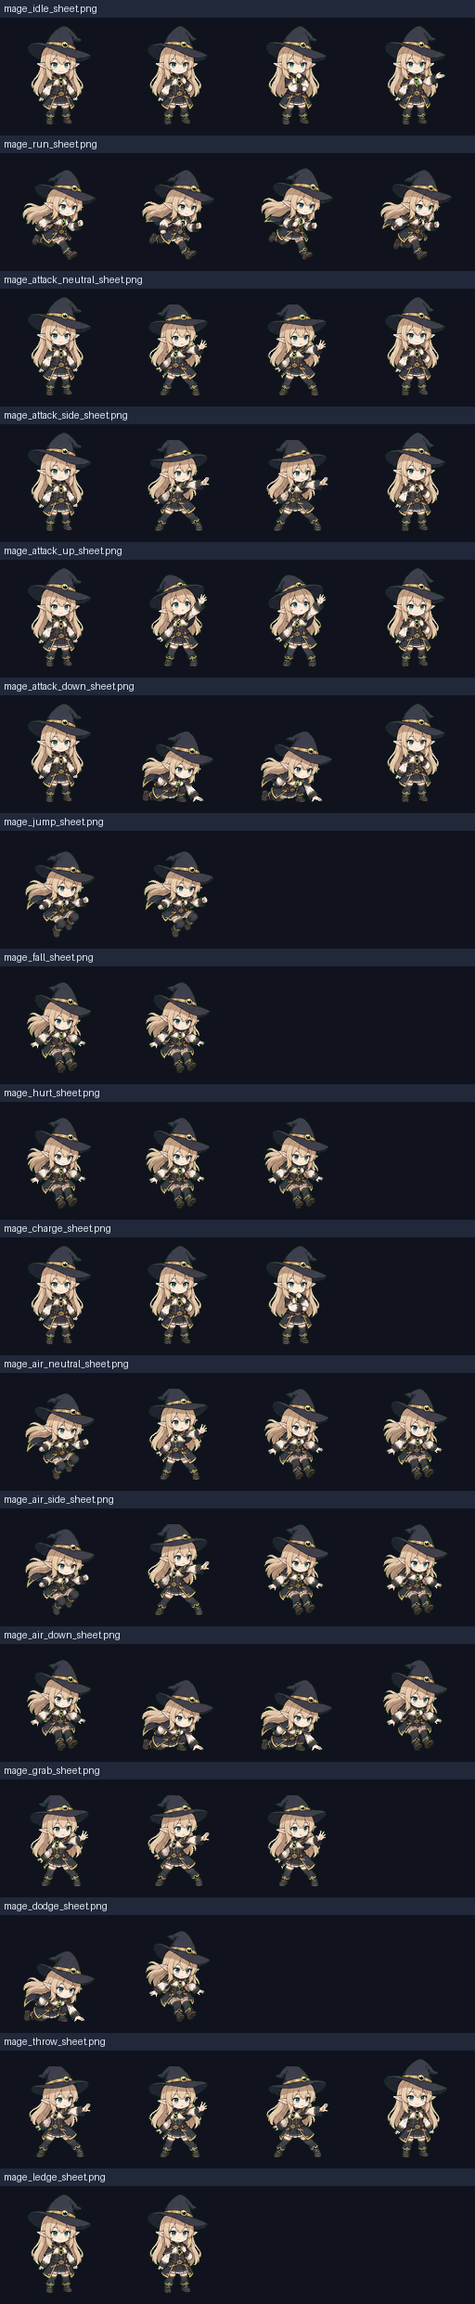
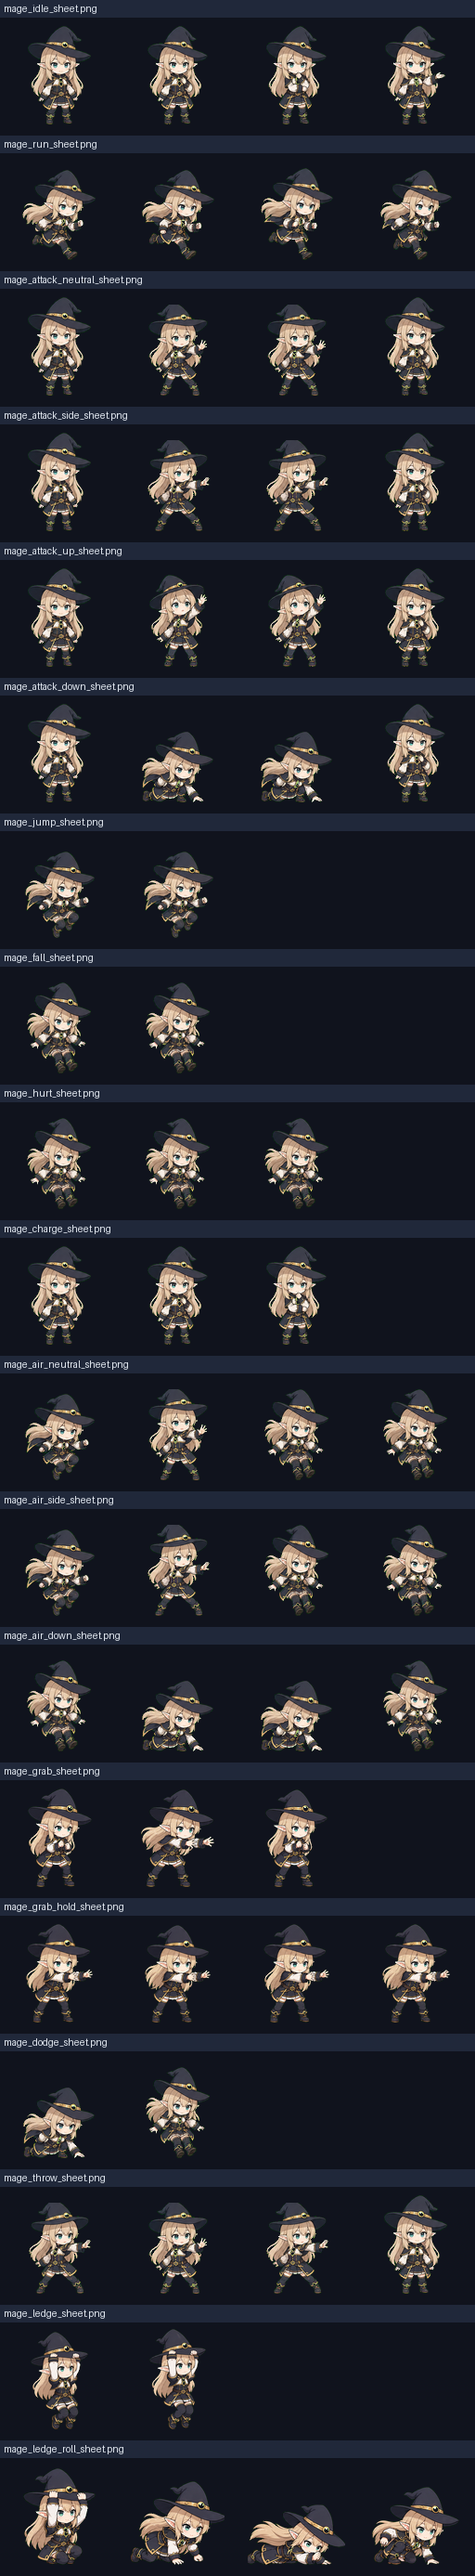
Update utility chibi motions

diff --git a/js/game.js b/js/game.js
@@ -2039,10 +2039,11 @@ window.SMA.SWORD_CHIBI_ANIMS = {
     airNeutral: { key: 'sword_chibi_air_neutral', src: 'assets/characters/sword/chibi_air_neutral_sheet.png?v=14', frames: 6, frameMs: 55 },
     airSide: { key: 'sword_chibi_air_side', src: 'assets/characters/sword/chibi_air_side_sheet.png?v=14', frames: 4, frameMs: 70 },
     airDown: { key: 'sword_chibi_air_down', src: 'assets/characters/sword/chibi_air_down_sheet.png?v=14', frames: 5, frameMs: 70 },
-    grab: { key: 'sword_chibi_grab', src: 'assets/characters/sword/chibi_grab_sheet.png?v=14', frames: 3, frameMs: 70 },
+    grab: { key: 'sword_chibi_grab', src: 'assets/characters/sword/chibi_grab_sheet.png?v=15', frames: 3, frameMs: 70 },
+    grabHold: { key: 'sword_chibi_grab_hold', src: 'assets/characters/sword/chibi_grab_hold_sheet.png?v=15', frames: 4, frameMs: 100 },
     throw: { key: 'sword_chibi_throw', src: 'assets/characters/sword/chibi_throw_sheet.png?v=14', frames: 4, frameMs: 80 },
     dodge: { key: 'sword_chibi_dodge', src: 'assets/characters/sword/chibi_dodge_sheet.png?v=14', frames: 2, frameMs: 70 },
-    ledge: { key: 'sword_chibi_ledge', src: 'assets/characters/sword/chibi_ledge_sheet.png?v=14', frames: 2, frameMs: 140 }
+    ledge: { key: 'sword_chibi_ledge', src: 'assets/characters/sword/chibi_ledge_sheet.png?v=15', frames: 2, frameMs: 140 }
 };
 for (var swordChibiAnimKey in window.SMA.SWORD_CHIBI_ANIMS) {
     if (Object.prototype.hasOwnProperty.call(window.SMA.SWORD_CHIBI_ANIMS, swordChibiAnimKey)) {
@@ -2067,7 +2068,8 @@ window.SMA.resolveSwordChibiAnim = function (fighter) {
     if (fighter.actionState === 'LEDGE' || fighter.actionState === 'LEDGE_UP') return A.ledge;
     if (fighter.actionState === 'LEDGE_ATK') return A.attackSide;
     if (fighter.actionState === 'GRAB_ATTEMPT') return A.grab;
-    if (fighter.actionState === 'GRABBING' || fighter.actionState === 'THROWING') return A.throw;
+    if (fighter.actionState === 'GRABBING') return A.grabHold || A.throw;
+    if (fighter.actionState === 'THROWING') return A.throw;
     if (fighter.actionState === 'ATTACK') {
         if (fighter.currentAttackType === 'SIDE') return A.attackSide;
         if (fighter.currentAttackType === 'UP' || fighter.currentAttackType === 'AIR_UP') return A.attackUp;
@@ -2401,7 +2403,8 @@ window.SMA.Fighter.prototype.drawSwordChibiSprite = function (ctx, cx) {
     ctx.scale(motion.scaleX, motion.scaleY);
     ctx.drawImage(img, sx, 0, fw, fh, -fw * spriteScale / 2, -baseline * spriteScale, fw * spriteScale, fh * spriteScale);
     ctx.restore();
-    if (!anim.integratedWeapon) {
+    var hideSword = this.actionState === 'LEDGE' || this.actionState === 'LEDGE_UP' || this.actionState === 'GRAB_ATTEMPT' || this.actionState === 'GRABBING';
+    if (!anim.integratedWeapon && !hideSword) {
         this.drawSwordChibiWeapon(ctx, cx, motion);
     }
 
@@ -2437,10 +2440,12 @@ window.SMA.MAGE_CHIBI_ANIMS = {
     airNeutral: { key: 'mage_chibi_air_neutral', src: 'assets/characters/mage/mage_air_neutral_sheet.png?v=2', frames: 4, frameMs: 70 },
     airSide: { key: 'mage_chibi_air_side', src: 'assets/characters/mage/mage_air_side_sheet.png?v=2', frames: 4, frameMs: 75 },
     airDown: { key: 'mage_chibi_air_down', src: 'assets/characters/mage/mage_air_down_sheet.png?v=2', frames: 4, frameMs: 75 },
-    grab: { key: 'mage_chibi_grab', src: 'assets/characters/mage/mage_grab_sheet.png?v=2', frames: 3, frameMs: 75 },
+    grab: { key: 'mage_chibi_grab', src: 'assets/characters/mage/mage_grab_sheet.png?v=3', frames: 3, frameMs: 75 },
+    grabHold: { key: 'mage_chibi_grab_hold', src: 'assets/characters/mage/mage_grab_hold_sheet.png?v=3', frames: 4, frameMs: 100 },
     throw: { key: 'mage_chibi_throw', src: 'assets/characters/mage/mage_throw_sheet.png?v=2', frames: 4, frameMs: 85 },
     dodge: { key: 'mage_chibi_dodge', src: 'assets/characters/mage/mage_dodge_sheet.png?v=2', frames: 2, frameMs: 75 },
-    ledge: { key: 'mage_chibi_ledge', src: 'assets/characters/mage/mage_ledge_sheet.png?v=2', frames: 2, frameMs: 150 }
+    ledge: { key: 'mage_chibi_ledge', src: 'assets/characters/mage/mage_ledge_sheet.png?v=3', frames: 2, frameMs: 150, baseline: 96 },
+    ledgeRoll: { key: 'mage_chibi_ledge_roll', src: 'assets/characters/mage/mage_ledge_roll_sheet.png?v=3', frames: 4, frameMs: 65 }
 };
 for (var mageChibiAnimKey in window.SMA.MAGE_CHIBI_ANIMS) {
     if (Object.prototype.hasOwnProperty.call(window.SMA.MAGE_CHIBI_ANIMS, mageChibiAnimKey)) {
@@ -2460,11 +2465,13 @@ window.SMA.resolveMageChibiAnim = function (fighter) {
     if (!A || !fighter || fighter.charId !== 'mage') return null;
     if (fighter.actionState === 'STUN' || fighter.actionState === 'GRABBED') return A.hurt;
     if (fighter.actionState === 'CHARGE') return A.charge;
-    if (fighter.actionState === 'DODGE' || fighter.actionState === 'LEDGE_ROLL') return A.dodge;
+    if (fighter.actionState === 'DODGE') return A.dodge;
+    if (fighter.actionState === 'LEDGE_ROLL') return A.ledgeRoll || A.dodge;
     if (fighter.actionState === 'LEDGE' || fighter.actionState === 'LEDGE_UP') return A.ledge;
     if (fighter.actionState === 'LEDGE_ATK') return A.attackSide;
     if (fighter.actionState === 'GRAB_ATTEMPT') return A.grab;
-    if (fighter.actionState === 'GRABBING' || fighter.actionState === 'THROWING') return A.throw;
+    if (fighter.actionState === 'GRABBING') return A.grabHold || A.throw;
+    if (fighter.actionState === 'THROWING') return A.throw;
     if (fighter.actionState === 'ATTACK') {
         if (fighter.currentAttackType === 'SIDE') return A.attackSide;
         if (fighter.currentAttackType === 'UP' || fighter.currentAttackType === 'AIR_UP') return A.attackUp;
@@ -2645,8 +2652,11 @@ window.SMA.Fighter.prototype.drawMageChibiSprite = function (ctx, cx) {
     }
     ctx.drawImage(img, sx, 0, fw, fh, -fw * spriteScale / 2, -baseline * spriteScale, fw * spriteScale, fh * spriteScale);
     ctx.restore();
-    this.drawMageChibiStaffBack(ctx, staffPose);
-    this.drawMageChibiStaffFront(ctx, staffPose);
+    var hideStaff = this.actionState === 'LEDGE' || this.actionState === 'LEDGE_UP' || this.actionState === 'LEDGE_ROLL' || this.actionState === 'GRAB_ATTEMPT' || this.actionState === 'GRABBING';
+    if (!hideStaff) {
+        this.drawMageChibiStaffBack(ctx, staffPose);
+        this.drawMageChibiStaffFront(ctx, staffPose);
+    }
 
     if (this.actionState === 'SHIELD') {
         ctx.save();
@@ -3002,11 +3012,11 @@ window.SMA.Fighter.prototype.draw = function (ctx) {
     ctx.scale(this.animScale.x, this.animScale.y);
 
     var drawn = false;
-    if (this.actionState === 'LEDGE_ROLL' && this.charId !== 'brawler') {
+    if (this.actionState === 'LEDGE_ROLL' && this.charId !== 'brawler' && this.charId !== 'mage' && this.charId !== 'sword') {
         ctx.translate(0, -15); ctx.rotate(this.rotation); ctx.strokeStyle = this.color; ctx.lineWidth = 4; ctx.beginPath(); ctx.arc(0, 0, 15, 0, Math.PI * 2); ctx.stroke(); ctx.beginPath(); ctx.moveTo(0, 0); ctx.lineTo(15, 0); ctx.stroke();
         drawn = true;
     } else {
-        if (!(this.actionState === 'LEDGE_ROLL' && this.charId === 'brawler')) {
+        if (!(this.actionState === 'LEDGE_ROLL' && (this.charId === 'brawler' || this.charId === 'mage' || this.charId === 'sword'))) {
             ctx.rotate(this.rotation);
         }
         ctx.translate(-cx, -(this.y + this.h));

diff --git a/index.html b/index.html
@@ -307,7 +307,7 @@
     <script src="js/main.js?v=713"></script>
     <script src="js/network.js?v=713"></script>
     <script src="js/audio.js?v=713"></script>
-    <script src="js/game.js?v=774"></script>
+    <script src="js/game.js?v=776"></script>
     <script src="js/ui.js?v=713"></script>
 </body>
 
